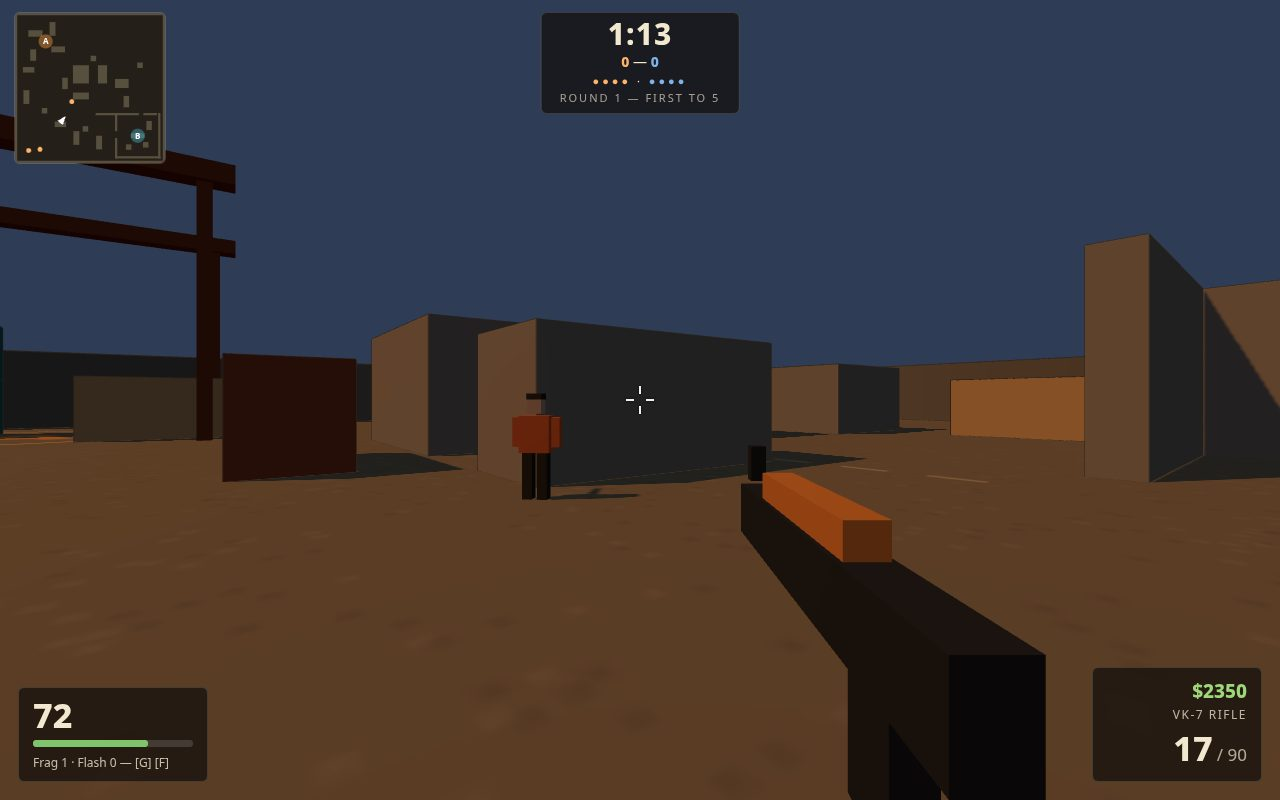
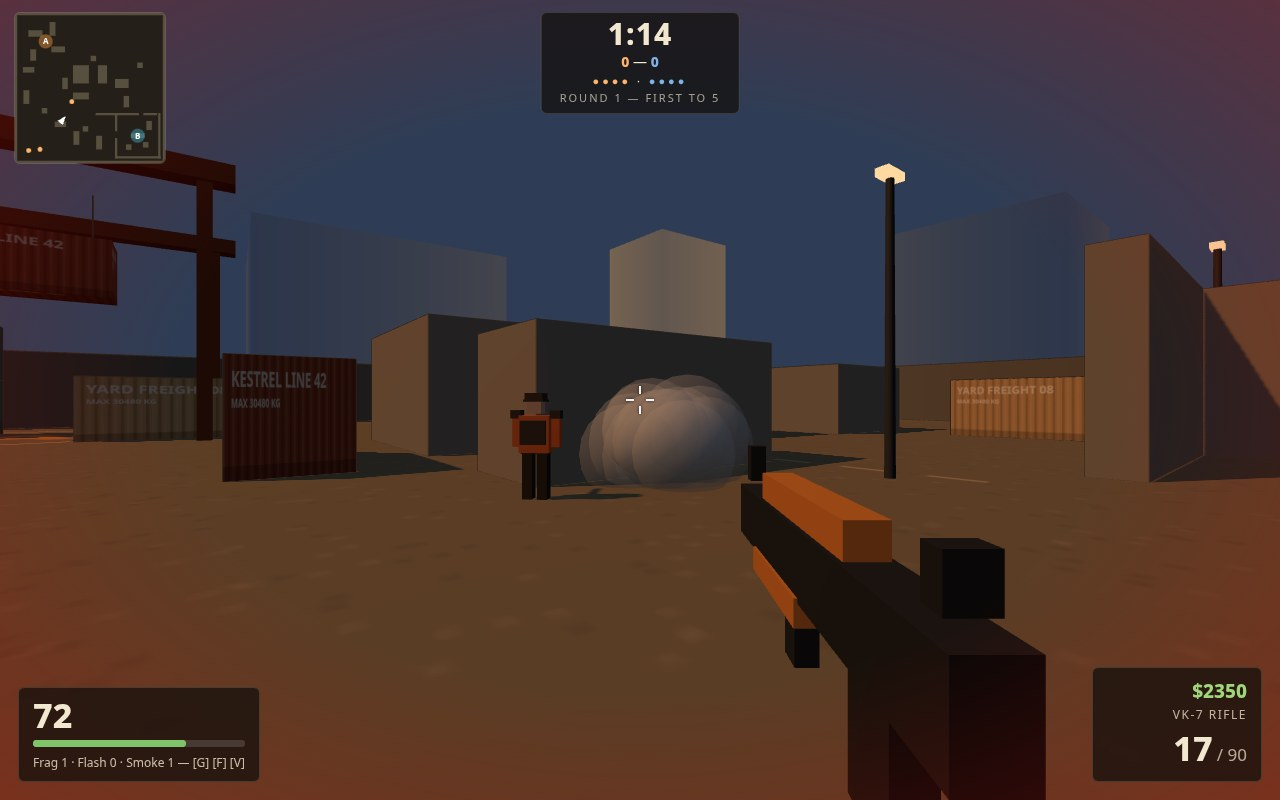
Smoke Veil grenade, textured containers, yard dressing, armoured bot models

diff --git a/game/src/map.js b/game/src/map.js
@@ -65,15 +65,74 @@ export const SPAWNS = {
   defenders: [[25, -25], [22, -27], [27, -22], [20, -24]],
 };
 
+/** A shipping container's skin: corrugation ribs, a stencilled fleet label
+ *  and grime along the bottom edge, drawn once onto a canvas. */
+function containerTexture(baseHex, label) {
+  const c = document.createElement('canvas');
+  c.width = 512;
+  c.height = 256;
+  const g = c.getContext('2d');
+  const base = `#${baseHex.toString(16).padStart(6, '0')}`;
+  g.fillStyle = base;
+  g.fillRect(0, 0, 512, 256);
+  for (let x = 0; x < 512; x += 32) {
+    g.fillStyle = 'rgba(255,255,255,0.10)';
+    g.fillRect(x, 0, 7, 256);
+    g.fillStyle = 'rgba(0,0,0,0.16)';
+    g.fillRect(x + 16, 0, 9, 256);
+  }
+  g.fillStyle = 'rgba(0,0,0,0.20)';
+  g.fillRect(0, 226, 512, 30);
+  for (let i = 0; i < 260; i++) {
+    g.fillStyle = Math.random() > 0.5 ? 'rgba(0,0,0,0.08)' : 'rgba(255,235,200,0.05)';
+    g.fillRect(Math.random() * 512, Math.random() * 256, 3, 3);
+  }
+  g.fillStyle = 'rgba(255,246,224,0.82)';
+  g.font = 'bold 44px system-ui, sans-serif';
+  g.fillText(label, 28, 66);
+  g.font = 'bold 25px system-ui, sans-serif';
+  g.fillText('MAX 30480 KG', 28, 108);
+  const tex = new THREE.CanvasTexture(c);
+  tex.colorSpace = THREE.SRGBColorSpace;
+  tex.anisotropy = 4;
+  return tex;
+}
+
+/** Stacked timber planks for the crates. */
+function plankTexture() {
+  const c = document.createElement('canvas');
+  c.width = c.height = 256;
+  const g = c.getContext('2d');
+  g.fillStyle = '#a97c50';
+  g.fillRect(0, 0, 256, 256);
+  for (let y = 0; y < 256; y += 52) {
+    g.fillStyle = 'rgba(0,0,0,0.22)';
+    g.fillRect(0, y, 256, 4);
+    g.fillStyle = 'rgba(255,230,190,0.07)';
+    g.fillRect(0, y + 4, 256, 8);
+  }
+  for (let i = 0; i < 500; i++) {
+    g.fillStyle = 'rgba(60,35,10,0.10)';
+    g.fillRect(Math.random() * 256, Math.random() * 256, 6, 1.6);
+  }
+  const tex = new THREE.CanvasTexture(c);
+  tex.colorSpace = THREE.SRGBColorSpace;
+  return tex;
+}
+
 export function buildMap(scene) {
   const colliders = SOLIDS.map(([x, z, w, d, h]) => ({
     x0: x - w / 2, x1: x + w / 2, z0: z - d / 2, z1: z + d / 2, h,
   }));
 
   const materials = {};
-  for (const key of ['concrete', 'concreteDark', 'rust', 'teal', 'sand', 'crateWood', 'metal']) {
+  for (const key of ['concrete', 'concreteDark', 'metal']) {
     materials[key] = new THREE.MeshStandardMaterial({ color: PALETTE[key], roughness: 0.92, metalness: 0.04 });
   }
+  materials.rust = new THREE.MeshStandardMaterial({ map: containerTexture(PALETTE.rust, 'KESTREL LINE 42'), roughness: 0.85, metalness: 0.08 });
+  materials.teal = new THREE.MeshStandardMaterial({ map: containerTexture(PALETTE.teal, 'KESTREL LINE 17'), roughness: 0.85, metalness: 0.08 });
+  materials.sand = new THREE.MeshStandardMaterial({ map: containerTexture(PALETTE.sand, 'YARD FREIGHT 08'), roughness: 0.88, metalness: 0.05 });
+  materials.crateWood = new THREE.MeshStandardMaterial({ map: plankTexture(), roughness: 0.95 });
   const edgeMat = new THREE.MeshBasicMaterial({ color: 0x2b2118 });
   for (const [x, z, w, d, h, mat] of SOLIDS) {
     const mesh = new THREE.Mesh(new THREE.BoxGeometry(w, h, d), materials[mat]);
@@ -99,6 +158,51 @@ export function buildMap(scene) {
   const beam2 = new THREE.Mesh(new THREE.BoxGeometry(15, 0.8, 1.2), craneMat);
   beam2.position.set(-19.5, 11, -14);
   scene.add(beam2);
+
+  // A container hanging from the crane over site A, cables taut.
+  const hang = new THREE.Mesh(new THREE.BoxGeometry(6, 2.6, 2.6), materials.rust);
+  hang.position.set(-19.5, 7.6, -20.5);
+  hang.rotation.y = 0.06;
+  hang.castShadow = true;
+  scene.add(hang);
+  const cableMat = new THREE.MeshBasicMaterial({ color: 0x1c1a16 });
+  for (const cx of [-21.8, -17.2]) {
+    const cable = new THREE.Mesh(new THREE.CylinderGeometry(0.03, 0.03, 2.2, 5), cableMat);
+    cable.position.set(cx, 10, -20.5);
+    scene.add(cable);
+  }
+
+  // Yard dressing: drum clusters tucked against the solids, floodlight
+  // poles over both sites and mid, and the port skyline beyond the walls.
+  const drumGeo = new THREE.CylinderGeometry(0.32, 0.32, 0.92, 12);
+  const drumMats = [materials.rust, materials.teal, new THREE.MeshStandardMaterial({ color: 0x596066, roughness: 0.8, metalness: 0.3 })];
+  const drumSpots = [
+    [-10.2, -5.4], [-9.5, -4.6], [-10.6, -4.4], [17.5, 9.3], [18.2, 9.6],
+    [13.2, 28.6], [13.9, 28.2], [-25.5, 11.8], [8.6, -11.5], [9.3, -11.1],
+  ];
+  drumSpots.forEach(([x, z], i) => {
+    const drum = new THREE.Mesh(drumGeo, drumMats[i % drumMats.length]);
+    drum.position.set(x, 0.46, z);
+    drum.castShadow = true;
+    scene.add(drum);
+  });
+  const poleMat = new THREE.MeshStandardMaterial({ color: 0x3c4147, roughness: 0.6, metalness: 0.5 });
+  const lampMat = new THREE.MeshBasicMaterial({ color: 0xffd9a0 });
+  for (const [x, z] of [[-26.5, -13], [12.2, 12.2], [-1, 8.5]]) {
+    const pole = new THREE.Mesh(new THREE.CylinderGeometry(0.09, 0.12, 6.4, 8), poleMat);
+    pole.position.set(x, 3.2, z);
+    scene.add(pole);
+    const head = new THREE.Mesh(new THREE.BoxGeometry(0.7, 0.18, 0.3), lampMat);
+    head.position.set(x, 6.45, z);
+    scene.add(head);
+  }
+  const skylineMat = new THREE.MeshBasicMaterial({ color: 0x27334a });
+  const skyline = [[-48, -30, 14, 22], [-44, 8, 10, 15], [-40, 38, 16, 26], [0, -50, 22, 17], [38, -44, 12, 24], [50, -6, 15, 19], [46, 30, 11, 28], [8, 50, 24, 14], [-20, 48, 13, 21]];
+  for (const [x, z, w, h] of skyline) {
+    const tower = new THREE.Mesh(new THREE.BoxGeometry(w, h, w), skylineMat);
+    tower.position.set(x, h / 2, z);
+    scene.add(tower);
+  }
 
   // Ground: asphalt canvas with painted lane lines and the two site rings.
   const ground = new THREE.Mesh(new THREE.PlaneGeometry(66, 66), new THREE.MeshStandardMaterial({ map: groundTexture(), roughness: 1 }));

diff --git a/game/src/weapons.js b/game/src/weapons.js
@@ -18,7 +18,7 @@ export class Loadout {
     for (const key of Object.keys(WEAPONS)) {
       this.ammo[key] = { mag: WEAPONS[key].mag, reserve: WEAPONS[key].reserve };
     }
-    this.grenades = { frag: 0, flash: 0 };
+    this.grenades = { frag: 0, flash: 0, smoke: 0 };
     this.armor = false;
     this.previous = 'pistol';
   }
@@ -89,6 +89,9 @@ export class ViewModel {
     add(st.thick * 0.7, 0.16, 0.09, 0, -0.11, -0.05, body); // magazine
     add(st.thick * 0.8, 0.05, st.len * 0.5, 0, st.thick * 1.05, -st.len / 2 + 0.08, accent); // top stripe
     add(0.03, 0.07, 0.03, 0, st.thick * 1.4, -st.len + 0.1, body); // front post
+    add(0.045, 0.05, 0.03, 0, st.thick * 1.35, 0.06, body); // rear sight
+    add(st.thick * 0.55, 0.13, 0.05, 0, -0.1, -st.len * 0.45, body); // foregrip
+    add(st.thick * 1.15, 0.04, st.len * 0.34, 0, -st.thick * 0.95, -st.len * 0.5, accent); // underbarrel rail accent
     if (key === 'dmr') add(0.05, 0.06, 0.18, 0, st.thick * 1.8, -0.2, body); // scope
     const flashMat = new THREE.MeshBasicMaterial({ color: 0xffc873, transparent: true, opacity: 0.95 });
     this.flash = new THREE.Mesh(new THREE.PlaneGeometry(0.3, 0.3), flashMat);
@@ -207,25 +210,51 @@ export class Gunner {
   }
 }
 
-/** Thrown grenades: a frag with area damage, a flash that blinds. */
+/** Thrown grenades: a frag with area damage, a flash that blinds, and a
+ *  smoke that walls off a sightline for eleven seconds. */
 export class Grenades {
   constructor(scene) {
     this.live = [];
+    this.smokes = [];
     this.meshGeo = new THREE.SphereGeometry(0.09, 10, 8);
     this.fragMat = new THREE.MeshStandardMaterial({ color: 0x44502e, roughness: 0.6 });
     this.flashMat = new THREE.MeshStandardMaterial({ color: 0xb8bcc2, roughness: 0.4, metalness: 0.5 });
+    this.smokeMat = new THREE.MeshStandardMaterial({ color: 0x9aa48f, roughness: 0.5, metalness: 0.3 });
+    this.cloudGeo = new THREE.SphereGeometry(1, 12, 10);
     this.scene = scene;
   }
 
   throw(kind, from, dir) {
-    const mesh = new THREE.Mesh(this.meshGeo, kind === 'frag' ? this.fragMat : this.flashMat);
+    const mat = kind === 'frag' ? this.fragMat : kind === 'smoke' ? this.smokeMat : this.flashMat;
+    const mesh = new THREE.Mesh(this.meshGeo, mat);
     mesh.position.set(from.x, from.y, from.z);
     this.scene.add(mesh);
     this.live.push({
       kind, mesh,
       vx: dir.x * 15, vy: dir.y * 15 + 2.5, vz: dir.z * 15,
-      fuse: 1.5,
+      fuse: kind === 'smoke' ? 1.1 : 1.5,
     });
+  }
+
+  /** Does any live smoke cloud block the segment (bot perception uses this)? */
+  blocksView(x1, y1, z1, x2, y2, z2) {
+    for (const s of this.smokes) {
+      const cx = s.x;
+      const cy = 1.15;
+      const cz = s.z;
+      const dx = x2 - x1;
+      const dy = y2 - y1;
+      const dz = z2 - z1;
+      const len2 = dx * dx + dy * dy + dz * dz || 1;
+      let t = ((cx - x1) * dx + (cy - y1) * dy + (cz - z1) * dz) / len2;
+      t = Math.max(0, Math.min(1, t));
+      const px = x1 + dx * t - cx;
+      const py = y1 + dy * t - cy;
+      const pz = z1 + dz * t - cz;
+      const r = s.r * s.grow;
+      if (px * px + py * py + pz * pz < r * r) return true;
+    }
+    return false;
   }
 
   update(dt, env) {
@@ -259,6 +288,23 @@ export class Grenades {
       }
     }
     this.live = still;
+
+    // Smoke clouds: bloom out over a second, hold, then thin and lift away.
+    const clouds = [];
+    for (const s of this.smokes) {
+      const age = env.now - s.born;
+      const remain = s.until - env.now;
+      if (remain <= 0) {
+        this.scene.remove(s.group);
+        continue;
+      }
+      s.grow = Math.min(1, age / 1.1);
+      const fade = Math.min(1, remain / 2.5);
+      s.group.scale.setScalar(0.35 + 0.65 * s.grow);
+      s.mat.opacity = 0.34 * Math.min(1, age / 0.5) * fade;
+      clouds.push(s);
+    }
+    this.smokes = clouds;
   }
 
   detonate(g, env) {
@@ -277,6 +323,29 @@ export class Grenades {
         applyDamage(t.body, spec.damage * (1 - d / (spec.radius + 1.5)));
         if (before > 0 && t.body.health <= 0) env.onGrenadeKill?.(t);
       }
+    } else if (g.kind === 'smoke') {
+      // A wall of vapour: a cluster of soft spheres that reads as one cloud
+      // and blocks bot sightlines (blocksView) while it stands.
+      env.sound.tone?.(320, 500, 0.06, 'sine');
+      const spec2 = GRENADES.smoke;
+      const group = new THREE.Group();
+      const mat = new THREE.MeshStandardMaterial({
+        color: 0xc4c7c2, transparent: true, opacity: 0, roughness: 1, depthWrite: false,
+      });
+      for (let i = 0; i < 13; i++) {
+        const m = new THREE.Mesh(this.cloudGeo, mat);
+        const a = (i / 13) * Math.PI * 2;
+        const rr = i === 0 ? 0 : spec2.radius * 0.42 * (0.5 + ((i * 37) % 10) / 20);
+        m.position.set(Math.cos(a) * rr, 0.75 + ((i * 53) % 10) / 9, Math.sin(a) * rr);
+        m.scale.setScalar(spec2.radius * (i === 0 ? 0.62 : 0.45));
+        group.add(m);
+      }
+      group.position.set(p.x, 0, p.z);
+      this.scene.add(group);
+      this.smokes.push({
+        group, mat, x: p.x, z: p.z, r: spec2.radius,
+        born: env.now, until: env.now + spec2.durationMs / 1000, grow: 0,
+      });
     } else {
       env.sound.tone?.(2400, 200, 0.1, 'sine');
       env.effects.puff({ x: p.x, y: p.y + 0.4, z: p.z }, 0xffffff, 2, 2);

diff --git a/game/src/main.js b/game/src/main.js
@@ -61,6 +61,7 @@ match.player.loadout = loadout;
 const view = new ViewModel(camera);
 const gunner = new Gunner(loadout, view);
 const grenades = new Grenades(scene);
+match.smokesRef = grenades;
 for (const bot of match.bots) scene.add(bot.mesh);
 
 // The charge, as a physical object once it leaves a carrier's hands.
@@ -118,6 +119,7 @@ const BUY_ITEMS = [
   { key: 'armor', label: 'Kevlar Vest', price: ARMOR_PRICE, kind: 'armor' },
   { key: 'frag', label: GRENADES.frag.name, price: GRENADES.frag.price, kind: 'grenade' },
   { key: 'flash', label: GRENADES.flash.name, price: GRENADES.flash.price, kind: 'grenade' },
+  { key: 'smoke', label: GRENADES.smoke.name, price: GRENADES.smoke.price, kind: 'grenade' },
 ];
 
 function refreshBuy() {
@@ -201,6 +203,10 @@ function step(dt) {
       if (input.wasPressed('KeyF') && loadout.grenades.flash > 0) {
         loadout.grenades.flash -= 1;
         grenades.throw('flash', eye, dir);
+      }
+      if (input.wasPressed('KeyV') && loadout.grenades.smoke > 0) {
+        loadout.grenades.smoke -= 1;
+        grenades.throw('smoke', eye, dir);
       }
       // Planting: hold E on a site while carrying the charge.
       if (input.down('KeyE') && match.bomb.state === 'carried' && match.bomb.carrier === player) {
@@ -317,7 +323,7 @@ function render() {
   // HUD state.
   hud.setHealth(body.health, loadout.armor);
   hud.setAmmo(loadout.magAmmo.mag, loadout.magAmmo.reserve, loadout.spec.name.toUpperCase());
-  hud.setGrenades(loadout.grenades.frag, loadout.grenades.flash);
+  hud.setGrenades(loadout.grenades.frag, loadout.grenades.flash, loadout.grenades.smoke);
   hud.setMoney(player.money);
   const phase = match.phase;
   if (phase === 'planted') {
@@ -408,6 +414,12 @@ if (SHOT !== null) {
     loadout.magAmmo.mag = 17;
     match.player.money = 2350;
     loadout.grenades.frag = 1;
+    loadout.grenades.smoke = 1;
+    // A smoke veil already blooming across the mid lane for the shot: the
+    // fuse is cut to near-zero so the cloud is up even at capture frame
+    // rates, bursting in the lane south of the weighbridge house.
+    grenades.throw('smoke', { x: -5, y: 1.5, z: 6 }, { x: 0.2, y: 0.02, z: -0.3 });
+    grenades.live[grenades.live.length - 1].fuse = 0.05;
     const foe = match.defenders[0];
     foe.body.x = 2;
     foe.body.z = -4;

diff --git a/game/src/bots.js b/game/src/bots.js
@@ -139,6 +139,7 @@ export class Bot {
       if (angle > 1.35 && dist > 5) continue; // vision cone, unless point blank
       const targetEyeY = e.body.y + (e.body.crouching ? 0.85 : 1.35);
       if (losBlocked(world.colliders, eye.x, eye.y, eye.z, e.body.x, targetEyeY, e.body.z)) continue;
+      if (world.smokes && world.smokes.blocksView(eye.x, eye.y, eye.z, e.body.x, targetEyeY, e.body.z)) continue;
       if (dist < bestDist) { bestDist = dist; best = e; }
     }
     if (best !== null) {
@@ -240,13 +241,22 @@ export function buildBotMesh(team) {
     inner.add(m);
     return m;
   };
+  const vest = new THREE.MeshStandardMaterial({ color: 0x3a352b, roughness: 0.95 });
   add(0.17, 0.78, 0.2, -0.13, 0.39, 0, dark); // legs
   add(0.17, 0.78, 0.2, 0.13, 0.39, 0, dark);
+  add(0.2, 0.12, 0.23, -0.13, 0.82, 0, vest); // knee pads
+  add(0.2, 0.12, 0.23, 0.13, 0.82, 0, vest);
   add(0.52, 0.62, 0.28, 0, 1.09, 0, suit); // torso
+  add(0.44, 0.4, 0.06, 0, 1.12, 0.17, vest); // chest plate
+  add(0.44, 0.4, 0.06, 0, 1.12, -0.17, vest); // back plate
   add(0.14, 0.5, 0.16, -0.34, 1.12, 0.05, suit); // arms
   add(0.14, 0.5, 0.16, 0.34, 1.12, 0.05, suit);
+  add(0.18, 0.14, 0.18, -0.34, 1.42, 0.02, vest); // shoulder pads
+  add(0.18, 0.14, 0.18, 0.34, 1.42, 0.02, vest);
   add(0.24, 0.26, 0.24, 0, 1.56, 0, skin); // head
-  add(0.26, 0.1, 0.26, 0, 1.72, 0, dark); // cap
+  add(0.3, 0.13, 0.3, 0, 1.71, 0, vest); // helmet shell
+  add(0.34, 0.04, 0.34, 0, 1.65, 0, vest); // helmet brim
   add(0.09, 0.09, 0.72, 0.2, 1.18, 0.42, dark); // gun, pointing +Z of the mesh
+  add(0.05, 0.16, 0.05, 0.2, 1.02, 0.1, dark); // magazine under the gun
   return group;
 }

diff --git a/game/src/hud.js b/game/src/hud.js
@@ -33,8 +33,8 @@ export class HUD {
     this.el['weapon-name'].textContent = weaponName;
   }
 
-  setGrenades(frag, flash) {
-    this.el['grenade-counts'].textContent = `Frag ${frag} · Flash ${flash} — [G] [F]`;
+  setGrenades(frag, flash, smoke) {
+    this.el['grenade-counts'].textContent = `Frag ${frag} · Flash ${flash} · Smoke ${smoke} — [G] [F] [V]`;
   }
 
   setMoney(money) {

diff --git a/game/src/config.js b/game/src/config.js
@@ -36,6 +36,7 @@ export const WEAPONS = {
 export const GRENADES = {
   frag: { name: 'Frag Charge', price: 300, damage: 92, radius: 6.5 },
   flash: { name: 'Blind Pepper', price: 200, durationMs: 2200 },
+  smoke: { name: 'Smoke Veil', price: 300, durationMs: 11000, radius: 3.4 },
 };
 
 export const ARMOR_PRICE = 650;

diff --git a/game/src/rounds.js b/game/src/rounds.js
@@ -161,6 +161,7 @@ export class Match {
       waypoints: this.waypointsRef,
       enemies,
       noise: this.noise,
+      smokes: this.smokesRef ?? null,
       onBotShot: (bot, eye, hit) => this.fx.onBotShot?.(bot, eye, hit),
       onKill: (attacker, victim, part) => onKill(attacker, victim, part),
     };
